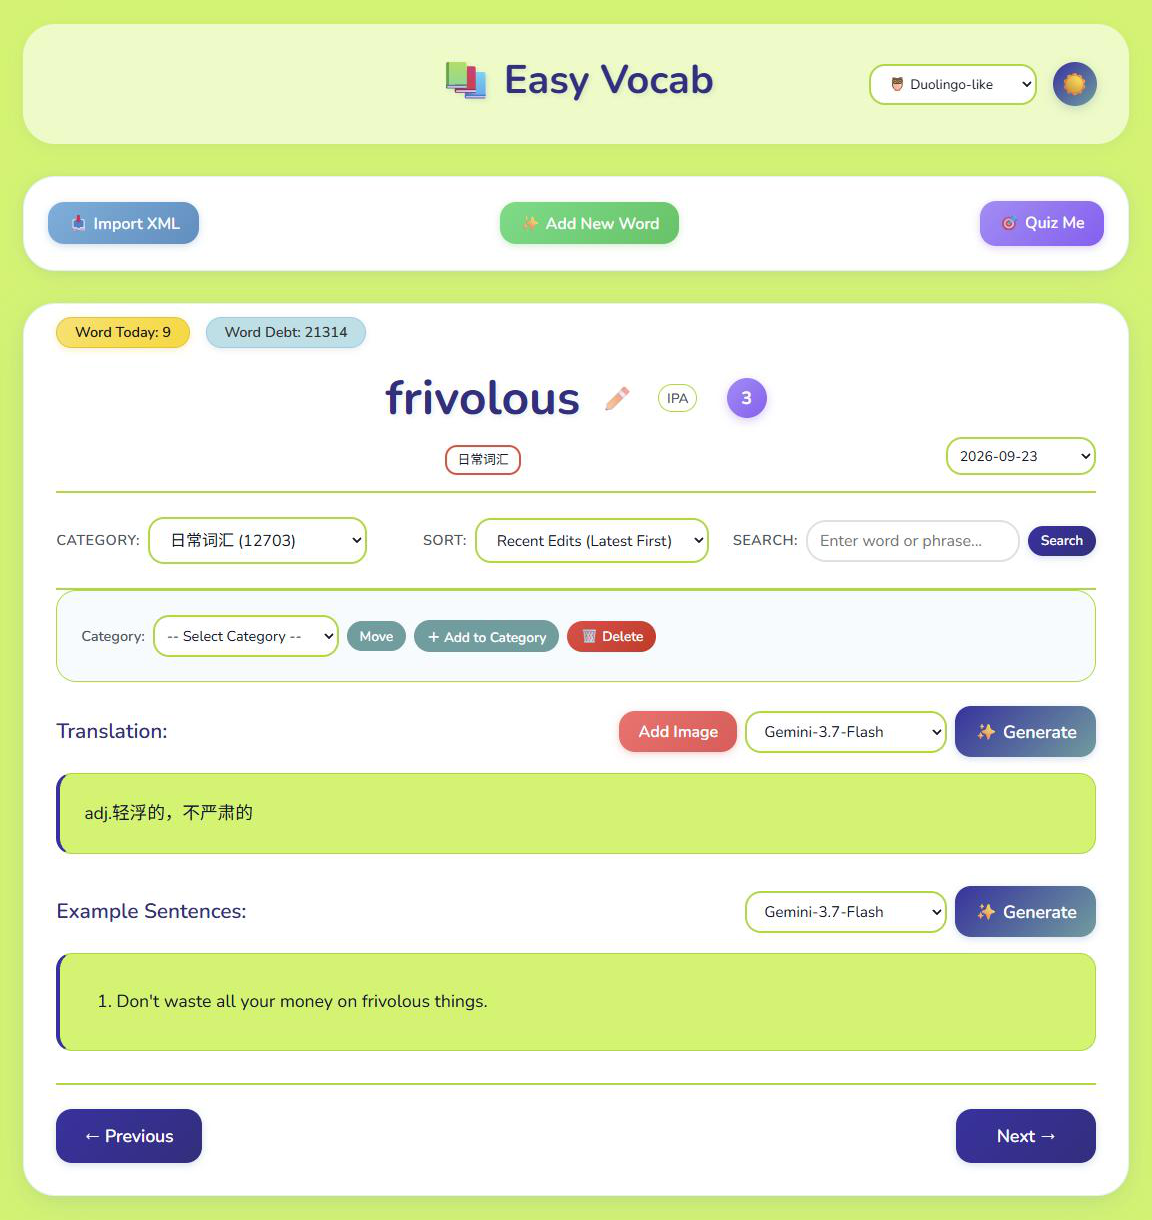
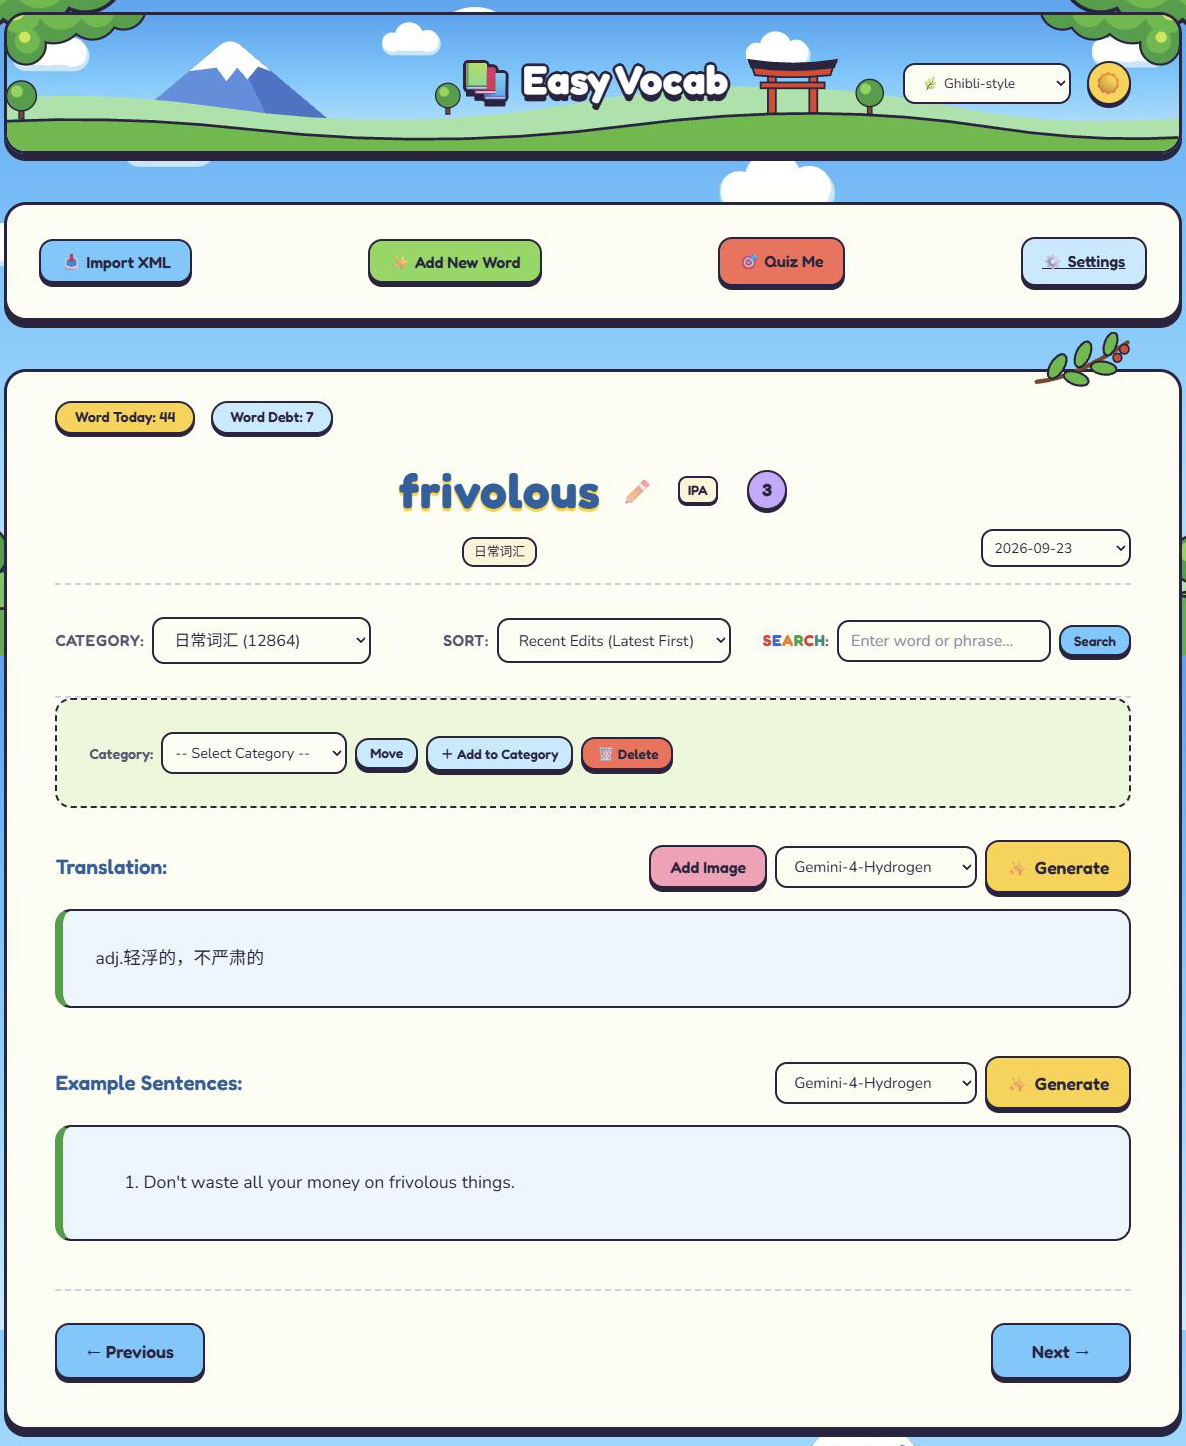
Retake README desktop screenshots in the Ghibli-style theme
Vocab page, quiz flashcard and quiz multiple-choice images now show the
Ghibli-style theme (light mode, word "frivolous"). The multiple-choice
image no longer includes the daily progress chart, which was empty for
the week of capture, so its alt text drops that mention. Phone screenshots
are unchanged. Quiz results were not submitted while capturing.

diff --git a/README.md b/README.md
@@ -8,7 +8,7 @@
 ![MySQL](https://img.shields.io/badge/mysql-8.0-orange)
 
 <p align="center">
-  <img src="static/images/readme-desktop.png" alt="EasyVocab main vocabulary page in the Duolingo-like theme" width="800">
+  <img src="static/images/readme-desktop.png" alt="EasyVocab main vocabulary page in the Ghibli-style theme" width="800">
 </p>
 
 ## 🌟 Features
@@ -35,7 +35,7 @@
 <table>
   <tr>
     <td width="50%" valign="top"><img src="static/images/readme-quiz-flashcard.png" alt="Quiz in flashcard mode with the answer revealed"></td>
-    <td width="50%" valign="top"><img src="static/images/readme-quiz-choice.png" alt="Quiz in multiple-choice mode with the correct answer selected and the daily progress chart"></td>
+    <td width="50%" valign="top"><img src="static/images/readme-quiz-choice.png" alt="Quiz in multiple-choice mode with the correct answer selected"></td>
   </tr>
   <tr>
     <td align="center"><sub>Flashcard mode</sub></td>
